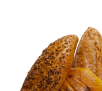
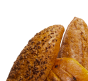
adaptive

diff --git a/css/styles.min.css b/css/styles.min.css
@@ -1,1 +1,1 @@
-:root{--primary-light: #faf4ea;--primary-dark: #31261a;--primary-green: #819b57;--secondary-light: #cfcfbc;--secondary-dark: #a18268;--secondary-green: #465929}@font-face{font-display:swap;font-family:"Poppins";font-style:normal;font-weight:300;src:url("../assets/fonts/poppins-v20-latin-300.woff2") format("woff2")}@font-face{font-display:swap;font-family:"Poppins";font-style:normal;font-weight:400;src:url("../assets/fonts/poppins-v20-latin-regular.woff2") format("woff2")}@font-face{font-display:swap;font-family:"Poppins";font-style:normal;font-weight:600;src:url("../assets/fonts/poppins-v20-latin-600.woff2") format("woff2")}@font-face{font-display:swap;font-family:"Poppins";font-style:normal;font-weight:900;src:url("../assets/fonts/poppins-v20-latin-900.woff2") format("woff2")}.accent{color:var(--primary-green);font-weight:600}.uppercase{text-transform:uppercase}.hidden{position:absolute;left:-10000px;top:auto;width:1px;height:1px;overflow:hidden}.is-hidden{opacity:0;visibility:hidden;pointer-events:none}.limited_340{max-width:340px}@media screen and (max-width: 768px){.limited_340{max-width:none}}.bg-img{background-repeat:no-repeat;background-position:center;background-size:cover}*{margin:0;padding:0;box-sizing:border-box}*:focus{outline:none}body{color:var(--primary-dark);background-color:var(--primary-light);font-family:"Poppins",sans-serif;font-weight:400;font-size:18px;line-height:1.5}@media screen and (max-width: 768px){body{font-size:16px;font-weight:300}}section{padding:48px 0 48px}@media screen and (max-width: 768px){section{padding:20px 0 20px}}.wrapper{width:100%;max-width:1288px;margin:0 auto;padding:0 24px}@media screen and (max-width: 768px){.wrapper{padding:0 20px}}ul{list-style-type:none}address{font-style:normal}h1{font-weight:900;font-size:128px}@media screen and (max-width: 1279px){h1{line-height:1.2}}@media screen and (max-width: 768px){h1{font-size:87px;line-height:1.015}}@media screen and (max-width: 480px){h1{font-size:67px;line-height:1.015}}h2{font-weight:900;font-size:64px;line-height:1.31}@media screen and (max-width: 1279px){h2{font-size:48px}}@media screen and (max-width: 768px){h2{font-size:32px}}h3{font-weight:600;font-size:40px}@media screen and (max-width: 1279px){h3{font-size:34px}}@media screen and (max-width: 768px){h3{font-size:24px}}a{text-decoration:none}img{max-width:100%;height:auto}.grn-btn{padding:16px 32px;background-color:var(--primary-green);color:var(--primary-light);font-size:18px;font-weight:600;border-radius:8px;border:2px solid var(--primary-green);cursor:pointer}.grn-btn:hover{background-color:rgba(0,0,0,0);color:var(--secondary-green)}@media screen and (max-width: 480px){.grn-btn{padding:12px 24px;font-size:16px}}.header{padding:32px 0 0;position:absolute;left:0;top:0;right:0;z-index:10}@media screen and (max-width: 480px){.header{padding:16px 0 0}}.header .wrapper{display:flex;flex-direction:row;justify-content:space-between;align-items:center;gap:40px}@media screen and (max-width: 1279px){.header .wrapper{justify-content:space-around}}@media screen and (max-width: 768px){.header .wrapper{justify-content:space-between}}.header__logo img{width:114px}@media screen and (max-width: 480px){.header__logo img{width:72px}}@media screen and (max-width: 768px){.header__nav{display:none}}.header__nav-list{display:flex;flex-direction:row;justify-content:space-between;align-items:center;gap:64px}@media screen and (max-width: 1279px){.header__nav-list{gap:60px}}.header__nav-item a{color:var(--primary-light);transition:color .3s}.header__nav-item a:hover{color:var(--primary-green)}@media screen and (max-width: 1279px){.header__btn{display:none}}.header__menu-btn{display:none;background-color:rgba(0,0,0,0);border:none;width:48px;height:48px;fill:var(--primary-light);padding:0}@media screen and (max-width: 768px){.header__menu-btn{display:block}}@media screen and (max-width: 480px){.header__menu-btn{width:24px;height:24px}}.header__menu-btn-icon{width:100%;height:100%}.footer{padding:32px 0 32px;background-image:url(../../assets/imgs/footer.jpg);position:relative}.footer:before,.footer:after{content:"";display:block;position:absolute;background-repeat:no-repeat}.footer:before{left:0;bottom:0;width:179px;height:121px;background-image:url(../../assets/imgs/bg-bread-left.png)}.footer:after{right:0;bottom:0;width:378px;height:187px;background-image:url(../../assets/imgs/bg-bread-right.png)}.footer .wrapper{display:flex;flex-direction:row;justify-content:space-between;gap:40px}.footer .wrapper>*{flex-grow:1}.footer a{color:var(--primary-light)}.footer a:hover{text-decoration:underline;color:var(--primary-green)}.footer__logo a{display:inline-block}.footer__nav-item:not(:last-child){margin-bottom:16px}.footer__address{display:flex;flex-direction:row;justify-content:space-between;gap:40px}.footer__address-list{max-width:211px}.footer__address-link{font-size:16px;font-weight:300;display:inline-block;margin-bottom:16px}.footer__privacy a{display:inline-block;margin-bottom:16px}.footer__copyright{font-size:14px;color:var(--secondary-dark)}.footer__soc{display:inline-block}.footer__soc:not(:last-child){margin-right:18px}.footer__soc-icon{width:32px;height:32px;fill:var(--primary-light)}.footer__soc-icon:hover{fill:var(--primary-green)}.hero{padding:0;background-image:linear-gradient(103deg, rgba(18, 18, 17, 0.78) 2.03%, rgba(18, 18, 17, 0.6) 58.46%, rgba(18, 18, 17, 0) 90.36%),url(../../assets/imgs/hero-bg.jpg);background-position:center top;background-size:cover;background-repeat:no-repeat;position:relative}@media(min-device-pixel-ratio: 2),(-webkit-min-device-pixel-ratio: 2),(min-resolution: 192dpi),(min-resolution: 2dppx){.hero{background-image:linear-gradient(103deg, rgba(18, 18, 17, 0.78) 2.03%, rgba(18, 18, 17, 0.6) 58.46%, rgba(18, 18, 17, 0) 90.36%),url(../../assets/imgs/hero-bg@2x.jpg)}}.hero .wrapper{position:relative;z-index:2;padding-top:272px;padding-bottom:272px}@media screen and (max-width: 768px){.hero .wrapper{padding-top:122px;padding-bottom:32px}}.hero__title{color:var(--primary-light);text-align:center;margin-bottom:0}.hero__mobile-btn{display:none;margin:48px auto 0}@media screen and (max-width: 1279px){.hero__mobile-btn{display:block}}.advantages{background-color:var(--primary-green);padding:16px 0}@media screen and (max-width: 480px){.advantages{background-color:rgba(0,0,0,0);padding:40px 21px 20px}}@media screen and (max-width: 480px){.advantages .wrapper{background-color:var(--secondary-light);padding:24px 40px;border-radius:24px}}.advantages__list{display:flex;justify-content:space-between;gap:40px}@media screen and (max-width: 480px){.advantages__list{flex-direction:column;gap:16px}}.advantages__item{color:var(--primary-light);font-size:20px;font-weight:300;text-align:center}@media screen and (max-width: 480px){.advantages__item{color:var(--primary-dark);font-size:14px;text-align:start}}.traditions{padding-top:96px}@media screen and (max-width: 768px){.traditions{padding-top:48px}}@media screen and (max-width: 480px){.traditions{padding-top:24px}}.traditions .wrapper{display:flex;justify-content:space-between;align-items:flex-start;gap:40px}@media screen and (max-width: 1279px){.traditions .wrapper{gap:20px}}.traditions__title{margin-bottom:42px}@media screen and (max-width: 768px){.traditions__title{margin-bottom:24px}}.traditions__descr{max-width:710px}.traditions__descr>*{margin-bottom:42px}@media screen and (max-width: 768px){.traditions__descr>*{margin-bottom:16px}}.traditions__descr>*:last-child{margin-bottom:0}.traditions__img{border-radius:400px 400px 0px 0px}@media screen and (max-width: 768px){.traditions__img{display:none}}.bakers__title{margin:0 auto 80px;text-align:center;position:relative}@media screen and (max-width: 768px){.bakers__title{margin:0 auto 20px}}.bakers__title_accent{display:block}.bakers__title:before,.bakers__title:after{content:"";display:block;width:352px;height:2px;background-color:var(--secondary-light);position:absolute;bottom:24px}@media screen and (max-width: 1279px){.bakers__title:before,.bakers__title:after{display:none}}.bakers__title:before{left:0}.bakers__title:after{right:0}.bakers__list{display:flex;flex-direction:row;justify-content:space-between;align-items:flex-start;flex-wrap:wrap;gap:40px 30px}@media screen and (max-width: 1279px){.bakers__list{gap:20px}}.bakers__baker{flex-basis:calc((100% - 30px)/2)}@media screen and (max-width: 1279px){.bakers__baker{flex-basis:auto}}.bakers__baker-content{display:flex;flex-direction:row;justify-content:left;align-items:flex-start;gap:30px}@media screen and (max-width: 1279px){.bakers__baker-content{gap:16px}}.bakers__baker-img{width:240px;border-radius:4px 4px 4px 200px;background:var(--secondary-light);box-shadow:-16px 16px 0 -2px var(--primary-light),-16px 16px 0 0 var(--secondary-dark)}@media screen and (max-width: 1279px){.bakers__baker-img{width:140px;box-shadow:-10px 10px 0 -2px var(--primary-light),-10px 10px 0 0 var(--secondary-dark)}}.bakers__baker-descr>*:not(:last-child){margin-bottom:24px}@media screen and (max-width: 768px){.bakers__baker-descr>*:not(:last-child){margin-bottom:16px}}@media screen and (max-width: 768px){.bakers__baker-descr{font-size:14px;font-weight:300}}.bakers__baker-title{margin-bottom:16px}.formats__title{margin-bottom:80px;text-align:center}@media screen and (max-width: 768px){.formats__title{margin-bottom:24px}}.contacts{padding-bottom:96px}@media screen and (max-width: 768px){.contacts{padding-bottom:0}}.contacts .wrapper{display:flex;flex-direction:row;justify-content:space-between;align-items:center;gap:32px}@media screen and (max-width: 768px){.contacts .wrapper{flex-direction:column;gap:24px}}.contacts .wrapper>*{flex-basis:calc((100% - 32px)/2)}@media screen and (max-width: 768px){.contacts .wrapper>*{flex-basis:auto}}.contacts__title{margin-bottom:42px}@media screen and (max-width: 768px){.contacts__title{margin-bottom:24px}}.contacts__title h2{margin-bottom:16px}@media screen and (max-width: 768px){.contacts__title h2{text-align:center;margin-bottom:8px}}.contacts__title p{color:var(--secondary-green)}@media screen and (max-width: 768px){.contacts__title p{font-size:14px;text-align:center}}.contacts .call-order-form__block{margin-bottom:24px}@media screen and (max-width: 480px){.contacts .call-order-form__block{margin-bottom:16px}}.contacts .call-order-form__btn{margin-bottom:16px}.contacts__map{border-radius:16px;border:none;height:595px}@media screen and (max-width: 768px){.contacts__map{width:calc(100% + 40px);height:376px}}@media screen and (max-width: 480px){.contacts__map{height:176px}}.mobile-menu{position:fixed;top:0;left:0;width:100%;height:100%;background-color:var(--primary-light);transform:translateX(100%);transition:transform .4s}.mobile-menu.is-open{transform:translateX(0)}.mobile-menu__close-btn{position:absolute;top:16px;right:24px;background-color:rgba(0,0,0,0);border:none;width:12px;height:12px;cursor:pointer}.mobile-menu__close-btn img{width:100%}.carousel{padding:0 77px;position:relative;text-align:center}@media screen and (max-width: 768px){.carousel{padding:0}}@media screen and (max-width: 768px){.carousel__inner{max-width:350px}}@media screen and (max-width: 768px){.carousel__inner{max-width:320px}}.carousel__item{display:flex !important;flex-direction:column;justify-content:flex-end;color:var(--primary-light);height:444px !important;padding:24px;position:relative;background:linear-gradient(180deg, rgba(49, 38, 26, 0) 55.21%, rgba(49, 38, 26, 0.71) 72.92%, #31261a 100%);border-radius:16px;-moz-text-align-last:left;text-align-last:left}.carousel__item-content{position:relative;min-height:170px}.carousel__item-title{margin-bottom:16px;font-size:24px}.carousel__item-descr{font-size:14px;font-weight:300}.carousel__item-descr dd,.carousel__item-descr dt{display:inline;line-height:1.7}.carousel__item-img{width:100%;height:100%;position:absolute;inset:0;z-index:-1}.carousel__item-img img{width:100%;height:100%;-o-object-fit:cover;object-fit:cover;border-radius:16px}.carousel__item-img:before{content:"";width:100%;height:100%;position:absolute;inset:0;background-blend-mode:overlay}.carousel .carousel__btn{display:flex;justify-content:center;align-items:center;flex-shrink:0;width:44px;height:44px;padding:0;background-color:rgba(0,0,0,0);border-radius:50%;border:1px solid var(--primary-dark);cursor:pointer;position:absolute;top:calc(50% - 22px)}@media screen and (max-width: 480px){.carousel .carousel__btn{display:none}}.carousel .carousel__btn:after{display:none}.carousel .carousel__btn:hover{background-color:var(--primary-dark)}.carousel .carousel__btn:hover .carousel__arrow{fill:var(--primary-light)}.carousel .carousel__btn_prev{left:0}.carousel .carousel__btn_next{transform:rotate(180deg);right:0}.carousel__arrow{width:16px;height:16px;fill:var(--primary-dark)}.pagination{width:auto !important;display:inline-flex;flex-direction:row;justify-content:space-between;align-items:center;gap:24px;margin-top:32px}.pagination__button{width:11px;height:11px;background-color:var(--secondary-dark);border-radius:100%;cursor:pointer}.pagination__button_active{background-color:var(--primary-green)}.modal{position:fixed;inset:0;background-color:rgba(0,0,0,.5);z-index:999;display:flex;flex-direction:row;justify-content:center;align-items:center;transition:opacity .3s,visibility .3s}.modal__inner{position:relative;background-color:var(--primary-light);border-radius:32px;width:100%;height:100%}.modal__close-btn{position:absolute;inset:40px 40px auto auto;background-color:rgba(0,0,0,0);border:none;width:40px;height:40px;cursor:pointer}.modal__close-btn img{width:100%}.call-order__inner{max-width:880px;max-height:880px;padding:128px 128px 187px;overflow-y:auto}.call-order__title{text-align:center;margin-bottom:72px}.call-order__title h2{margin-bottom:8px}.call-order-form__block{margin-bottom:32px}@media screen and (max-width: 480px){.call-order-form__block{margin-bottom:16px}}.call-order-form__input{padding:16px 42px;width:100%;background-color:rgba(0,0,0,0);border:1px solid var(--secondary-dark);border-radius:8px;font-size:16px}@media screen and (max-width: 480px){.call-order-form__input{padding:8px 24px}}.call-order-form__input:focus{border-color:var(--primary-green)}.call-order-form__input:focus::-moz-placeholder{color:var(--primary-dark)}.call-order-form__input:focus::placeholder{color:var(--primary-dark)}.call-order-form__input::-moz-placeholder{color:var(--secondary-dark);font-size:16px}.call-order-form__input::placeholder{color:var(--secondary-dark);font-size:16px}.call-order-form__btn{display:block;margin:0 auto 24px}.call-order-form__privacy{display:block;max-width:215px;margin:0 auto;text-align:center;font-size:12px;font-weight:500;color:var(--primary-dark)}.call-order-form__privacy a{color:var(--primary-dark);text-decoration:underline;text-underline-offset:2px}.call-order-form__privacy a:hover{text-decoration:none}/*# sourceMappingURL=styles.min.css.map */
+:root{--primary-light: #faf4ea;--primary-dark: #31261a;--primary-green: #819b57;--secondary-light: #cfcfbc;--secondary-dark: #a18268;--secondary-green: #465929}@font-face{font-display:swap;font-family:"Poppins";font-style:normal;font-weight:300;src:url("../assets/fonts/poppins-v20-latin-300.woff2") format("woff2")}@font-face{font-display:swap;font-family:"Poppins";font-style:normal;font-weight:400;src:url("../assets/fonts/poppins-v20-latin-regular.woff2") format("woff2")}@font-face{font-display:swap;font-family:"Poppins";font-style:normal;font-weight:600;src:url("../assets/fonts/poppins-v20-latin-600.woff2") format("woff2")}@font-face{font-display:swap;font-family:"Poppins";font-style:normal;font-weight:900;src:url("../assets/fonts/poppins-v20-latin-900.woff2") format("woff2")}.accent{color:var(--primary-green);font-weight:600}.uppercase{text-transform:uppercase}.hidden{position:absolute;left:-10000px;top:auto;width:1px;height:1px;overflow:hidden}.is-hidden{opacity:0;visibility:hidden;pointer-events:none}.limited_340{max-width:340px}@media screen and (max-width: 768px){.limited_340{max-width:none}}.bg-img{background-repeat:no-repeat;background-position:center;background-size:cover}*{margin:0;padding:0;box-sizing:border-box}*:focus{outline:none}body{color:var(--primary-dark);background-color:var(--primary-light);font-family:"Poppins",sans-serif;font-weight:400;font-size:18px;line-height:1.5}@media screen and (max-width: 768px){body{font-size:16px;font-weight:300}}section{padding:48px 0 48px}@media screen and (max-width: 768px){section{padding:20px 0 20px}}.wrapper{width:100%;max-width:1288px;margin:0 auto;padding:0 24px}@media screen and (max-width: 768px){.wrapper{padding:0 20px}}ul{list-style-type:none}address{font-style:normal}h1{font-weight:900;font-size:128px}@media screen and (max-width: 1279px){h1{line-height:1.2}}@media screen and (max-width: 768px){h1{font-size:87px;line-height:1.015}}@media screen and (max-width: 480px){h1{font-size:67px;line-height:1.015}}h2{font-weight:900;font-size:64px;line-height:1.31}@media screen and (max-width: 1279px){h2{font-size:48px}}@media screen and (max-width: 768px){h2{font-size:32px}}h3{font-weight:600;font-size:40px}@media screen and (max-width: 1279px){h3{font-size:34px}}@media screen and (max-width: 768px){h3{font-size:24px}}a{text-decoration:none}img{max-width:100%;height:auto}.grn-btn{padding:16px 32px;background-color:var(--primary-green);color:var(--primary-light);font-size:18px;font-weight:600;border-radius:8px;border:2px solid var(--primary-green);cursor:pointer}.grn-btn:hover{background-color:rgba(0,0,0,0);color:var(--secondary-green)}@media screen and (max-width: 480px){.grn-btn{padding:12px 24px;font-size:16px}}.header{padding:32px 0 0;position:absolute;left:0;top:0;right:0;z-index:10}@media screen and (max-width: 480px){.header{padding:16px 0 0}}.header .wrapper{display:flex;flex-direction:row;justify-content:space-between;align-items:center;gap:40px}@media screen and (max-width: 1279px){.header .wrapper{justify-content:space-around}}@media screen and (max-width: 768px){.header .wrapper{justify-content:space-between}}.header__logo img{width:114px}@media screen and (max-width: 480px){.header__logo img{width:72px}}@media screen and (max-width: 768px){.header__nav{display:none}}.header__nav-list{display:flex;flex-direction:row;justify-content:space-between;align-items:center;gap:64px}@media screen and (max-width: 1279px){.header__nav-list{gap:60px}}.header__nav-item a{color:var(--primary-light);transition:color .3s}.header__nav-item a:hover{color:var(--primary-green)}@media screen and (max-width: 1279px){.header__btn{display:none}}.header__menu-btn{display:none;background-color:rgba(0,0,0,0);border:none;width:48px;height:48px;fill:var(--primary-light);padding:0}@media screen and (max-width: 768px){.header__menu-btn{display:block}}@media screen and (max-width: 480px){.header__menu-btn{width:24px;height:24px}}.header__menu-btn-icon{width:100%;height:100%}.footer{padding:32px 0 32px;background-image:url(../../assets/imgs/footer.jpg);position:relative}.footer:before,.footer:after{content:"";display:block;position:absolute;background-repeat:no-repeat}.footer:before{left:0;bottom:0;width:179px;height:121px;background-image:url(../../assets/imgs/bg-bread-left.png)}@media screen and (max-width: 480px){.footer:before{bottom:auto;top:60px;width:92px;height:196px;background-image:url(../../assets/imgs/m-bg-bread-left.png)}}.footer:after{right:0;bottom:0;width:378px;height:187px;background-image:url(../../assets/imgs/bg-bread-right.png)}@media screen and (max-width: 768px){.footer:after{width:290px}}@media screen and (max-width: 480px){.footer:after{width:86px;height:82px;background-image:url(../../assets/imgs/m-bg-bread-right.png)}}.footer .wrapper{display:flex;flex-direction:row;justify-content:space-between;gap:40px}@media screen and (max-width: 768px){.footer .wrapper{flex-direction:column;text-align:center}}@media screen and (max-width: 480px){.footer .wrapper{gap:0}}.footer .wrapper>*{flex-grow:1}.footer a{color:var(--primary-light)}.footer a:hover{text-decoration:underline;color:var(--primary-green)}@media screen and (max-width: 480px){.footer__logo{margin-bottom:32px}}.footer__logo a{display:inline-block}@media screen and (max-width: 480px){.footer__logo img{width:72px}}@media screen and (max-width: 480px){.footer__nav{margin-bottom:18px}}.footer__nav-item:not(:last-child){margin-bottom:16px}.footer__address{display:flex;flex-direction:row;justify-content:space-between;gap:40px}@media screen and (max-width: 768px){.footer__address{flex-direction:column;text-align:center}}@media screen and (max-width: 480px){.footer__address{gap:8px}}.footer__address-list{max-width:211px}@media screen and (max-width: 768px){.footer__address-list{max-width:none}}.footer__address-link{font-size:16px;font-weight:300;display:inline-block;margin-bottom:16px}.footer__privacy a{display:inline-block;margin-bottom:16px}@media screen and (max-width: 480px){.footer__privacy a{margin-bottom:8px}}.footer__copyright{font-size:14px;color:var(--secondary-dark)}.footer__soc{display:inline-block}.footer__soc:not(:last-child){margin-right:18px}.footer__soc-icon{width:32px;height:32px;fill:var(--primary-light)}.footer__soc-icon:hover{fill:var(--primary-green)}.hero{padding:0;background-image:linear-gradient(103deg, rgba(18, 18, 17, 0.78) 2.03%, rgba(18, 18, 17, 0.6) 58.46%, rgba(18, 18, 17, 0) 90.36%),url(../../assets/imgs/hero-bg.jpg);background-position:center top;background-size:cover;background-repeat:no-repeat;position:relative}@media(min-device-pixel-ratio: 2),(-webkit-min-device-pixel-ratio: 2),(min-resolution: 192dpi),(min-resolution: 2dppx){.hero{background-image:linear-gradient(103deg, rgba(18, 18, 17, 0.78) 2.03%, rgba(18, 18, 17, 0.6) 58.46%, rgba(18, 18, 17, 0) 90.36%),url(../../assets/imgs/hero-bg@2x.jpg)}}.hero .wrapper{position:relative;z-index:2;padding-top:272px;padding-bottom:272px}@media screen and (max-width: 768px){.hero .wrapper{padding-top:122px;padding-bottom:32px}}.hero__title{color:var(--primary-light);text-align:center;margin-bottom:0}.hero__mobile-btn{display:none;margin:48px auto 0}@media screen and (max-width: 1279px){.hero__mobile-btn{display:block}}.advantages{background-color:var(--primary-green);padding:16px 0}@media screen and (max-width: 480px){.advantages{background-color:rgba(0,0,0,0);padding:40px 21px 20px}}@media screen and (max-width: 480px){.advantages .wrapper{background-color:var(--secondary-light);padding:24px 40px;border-radius:24px}}.advantages__list{display:flex;justify-content:space-between;gap:40px}@media screen and (max-width: 480px){.advantages__list{flex-direction:column;gap:16px}}.advantages__item{color:var(--primary-light);font-size:20px;font-weight:300;text-align:center}@media screen and (max-width: 480px){.advantages__item{color:var(--primary-dark);font-size:14px;text-align:start}}.traditions{padding-top:96px}@media screen and (max-width: 768px){.traditions{padding-top:48px}}@media screen and (max-width: 480px){.traditions{padding-top:24px}}.traditions .wrapper{display:flex;justify-content:space-between;align-items:flex-start;gap:40px}@media screen and (max-width: 1279px){.traditions .wrapper{gap:20px}}.traditions__title{margin-bottom:42px}@media screen and (max-width: 768px){.traditions__title{margin-bottom:24px}}.traditions__descr{max-width:710px}.traditions__descr>*{margin-bottom:42px}@media screen and (max-width: 768px){.traditions__descr>*{margin-bottom:16px}}.traditions__descr>*:last-child{margin-bottom:0}.traditions__img{border-radius:400px 400px 0px 0px}@media screen and (max-width: 768px){.traditions__img{display:none}}.bakers__title{margin:0 auto 80px;text-align:center;position:relative}@media screen and (max-width: 768px){.bakers__title{margin:0 auto 20px}}.bakers__title_accent{display:block}.bakers__title:before,.bakers__title:after{content:"";display:block;width:352px;height:2px;background-color:var(--secondary-light);position:absolute;bottom:24px}@media screen and (max-width: 1279px){.bakers__title:before,.bakers__title:after{display:none}}.bakers__title:before{left:0}.bakers__title:after{right:0}.bakers__list{display:flex;flex-direction:row;justify-content:space-between;align-items:flex-start;flex-wrap:wrap;gap:40px 30px}@media screen and (max-width: 1279px){.bakers__list{gap:20px}}.bakers__baker{flex-basis:calc((100% - 30px)/2)}@media screen and (max-width: 1279px){.bakers__baker{flex-basis:auto}}.bakers__baker-content{display:flex;flex-direction:row;justify-content:left;align-items:flex-start;gap:30px}@media screen and (max-width: 1279px){.bakers__baker-content{gap:16px}}.bakers__baker-img{width:240px;border-radius:4px 4px 4px 200px;background:var(--secondary-light);box-shadow:-16px 16px 0 -2px var(--primary-light),-16px 16px 0 0 var(--secondary-dark)}@media screen and (max-width: 1279px){.bakers__baker-img{width:140px;box-shadow:-10px 10px 0 -2px var(--primary-light),-10px 10px 0 0 var(--secondary-dark)}}.bakers__baker-descr>*:not(:last-child){margin-bottom:24px}@media screen and (max-width: 768px){.bakers__baker-descr>*:not(:last-child){margin-bottom:16px}}@media screen and (max-width: 768px){.bakers__baker-descr{font-size:14px;font-weight:300}}.bakers__baker-title{margin-bottom:16px}.formats__title{margin-bottom:80px;text-align:center}@media screen and (max-width: 768px){.formats__title{margin-bottom:24px}}.contacts{padding-bottom:96px}@media screen and (max-width: 768px){.contacts{padding-bottom:0}}.contacts .wrapper{display:flex;flex-direction:row;justify-content:space-between;align-items:center;gap:32px}@media screen and (max-width: 768px){.contacts .wrapper{flex-direction:column;gap:24px}}.contacts .wrapper>*{flex-basis:calc((100% - 32px)/2)}@media screen and (max-width: 768px){.contacts .wrapper>*{flex-basis:auto}}.contacts__title{margin-bottom:42px}@media screen and (max-width: 768px){.contacts__title{margin-bottom:24px}}.contacts__title h2{margin-bottom:16px}@media screen and (max-width: 768px){.contacts__title h2{text-align:center;margin-bottom:8px}}.contacts__title p{color:var(--secondary-green)}@media screen and (max-width: 768px){.contacts__title p{font-size:14px;text-align:center}}.contacts .call-order-form__block{margin-bottom:24px}@media screen and (max-width: 480px){.contacts .call-order-form__block{margin-bottom:16px}}.contacts .call-order-form__btn{margin-bottom:16px}.contacts__map{border-radius:16px;border:none;height:595px}@media screen and (max-width: 768px){.contacts__map{width:calc(100% + 40px);height:376px}}@media screen and (max-width: 480px){.contacts__map{height:176px}}.mobile-menu{position:fixed;top:0;left:0;width:100%;height:100%;background-color:var(--primary-light);transform:translateX(100%);transition:transform .4s}.mobile-menu.is-open{transform:translateX(0)}.mobile-menu__close-btn{position:absolute;top:16px;right:24px;background-color:rgba(0,0,0,0);border:none;width:12px;height:12px;cursor:pointer}.mobile-menu__close-btn img{width:100%}.carousel{padding:0 77px;position:relative;text-align:center}@media screen and (max-width: 768px){.carousel{padding:0}}@media screen and (max-width: 768px){.carousel__inner{max-width:350px}}@media screen and (max-width: 768px){.carousel__inner{max-width:320px}}.carousel__item{display:flex !important;flex-direction:column;justify-content:flex-end;color:var(--primary-light);height:444px !important;padding:24px;position:relative;background:linear-gradient(180deg, rgba(49, 38, 26, 0) 55.21%, rgba(49, 38, 26, 0.71) 72.92%, #31261a 100%);border-radius:16px;-moz-text-align-last:left;text-align-last:left}.carousel__item-content{position:relative;min-height:170px}.carousel__item-title{margin-bottom:16px;font-size:24px}.carousel__item-descr{font-size:14px;font-weight:300}.carousel__item-descr dd,.carousel__item-descr dt{display:inline;line-height:1.7}.carousel__item-img{width:100%;height:100%;position:absolute;inset:0;z-index:-1}.carousel__item-img img{width:100%;height:100%;-o-object-fit:cover;object-fit:cover;border-radius:16px}.carousel__item-img:before{content:"";width:100%;height:100%;position:absolute;inset:0;background-blend-mode:overlay}.carousel .carousel__btn{display:flex;justify-content:center;align-items:center;flex-shrink:0;width:44px;height:44px;padding:0;background-color:rgba(0,0,0,0);border-radius:50%;border:1px solid var(--primary-dark);cursor:pointer;position:absolute;top:calc(50% - 22px)}@media screen and (max-width: 480px){.carousel .carousel__btn{display:none}}.carousel .carousel__btn:after{display:none}.carousel .carousel__btn:hover{background-color:var(--primary-dark)}.carousel .carousel__btn:hover .carousel__arrow{fill:var(--primary-light)}.carousel .carousel__btn_prev{left:0}.carousel .carousel__btn_next{transform:rotate(180deg);right:0}.carousel__arrow{width:16px;height:16px;fill:var(--primary-dark)}.pagination{width:auto !important;display:inline-flex;flex-direction:row;justify-content:space-between;align-items:center;gap:24px;margin-top:32px}.pagination__button{width:11px;height:11px;background-color:var(--secondary-dark);border-radius:100%;cursor:pointer}.pagination__button_active{background-color:var(--primary-green)}.modal{position:fixed;inset:0;background-color:rgba(0,0,0,.5);z-index:999;display:flex;flex-direction:row;justify-content:center;align-items:center;transition:opacity .3s,visibility .3s}.modal__inner{position:relative;background-color:var(--primary-light);border-radius:32px;width:100%;height:100%}.modal__close-btn{position:absolute;inset:40px 40px auto auto;background-color:rgba(0,0,0,0);border:none;width:40px;height:40px;cursor:pointer}.modal__close-btn img{width:100%}.call-order__inner{max-width:880px;max-height:880px;padding:128px 128px 187px;overflow-y:auto}.call-order__title{text-align:center;margin-bottom:72px}.call-order__title h2{margin-bottom:8px}.call-order-form__block{margin-bottom:32px}@media screen and (max-width: 480px){.call-order-form__block{margin-bottom:16px}}.call-order-form__input{padding:16px 42px;width:100%;background-color:rgba(0,0,0,0);border:1px solid var(--secondary-dark);border-radius:8px;font-size:16px}@media screen and (max-width: 480px){.call-order-form__input{padding:8px 24px}}.call-order-form__input:focus{border-color:var(--primary-green)}.call-order-form__input:focus::-moz-placeholder{color:var(--primary-dark)}.call-order-form__input:focus::placeholder{color:var(--primary-dark)}.call-order-form__input::-moz-placeholder{color:var(--secondary-dark);font-size:16px}.call-order-form__input::placeholder{color:var(--secondary-dark);font-size:16px}.call-order-form__btn{display:block;margin:0 auto 24px}.call-order-form__privacy{display:block;max-width:215px;margin:0 auto;text-align:center;font-size:12px;font-weight:500;color:var(--primary-dark)}.call-order-form__privacy a{color:var(--primary-dark);text-decoration:underline;text-underline-offset:2px}.call-order-form__privacy a:hover{text-decoration:none}/*# sourceMappingURL=styles.min.css.map */

diff --git a/scss/layout/_footer.scss b/scss/layout/_footer.scss
@@ -17,6 +17,14 @@
         width: 179px;
         height: 121px;
         background-image: url(../../assets/imgs/bg-bread-left.png);
+
+        @media screen and (max-width: $bp-mobile) {
+            bottom: auto;
+            top: 60px;
+            width: 92px;
+            height: 196px;
+            background-image: url(../../assets/imgs/m-bg-bread-left.png);
+        }
     }
 
     &:after {
@@ -25,6 +33,16 @@
         width: 378px;
         height: 187px;
         background-image: url(../../assets/imgs/bg-bread-right.png);
+
+        @media screen and (max-width: $bp-tablet) {
+            width: 290px;
+        }
+
+        @media screen and (max-width: $bp-mobile) {
+            width: 86px;
+            height: 82px;
+            background-image: url(../../assets/imgs/m-bg-bread-right.png);
+        }
     }
 
     .wrapper {
@@ -32,6 +50,15 @@
         flex-direction: row;
         justify-content: space-between;
         gap: 40px;
+
+        @media screen and (max-width: $bp-tablet) {
+            flex-direction: column;
+            text-align: center;
+        }
+
+        @media screen and (max-width: $bp-mobile) {
+            gap: 0;
+        }
 
         & > * {
             flex-grow: 1;
@@ -48,13 +75,29 @@
     }
 
     &__logo {
+        @media screen and (max-width: $bp-mobile) {
+            margin-bottom: 32px;
+        }
+
         a {
             display: inline-block;
         }
+
+        img {
+            @media screen and (max-width: $bp-mobile) {
+                width: 72px;
+            }
+        }
     }
 
-    &__nav-item:not(:last-child) {
-        margin-bottom: 16px;
+    &__nav {
+        @media screen and (max-width: $bp-mobile) {
+            margin-bottom: 18px;
+        }
+
+        &-item:not(:last-child) {
+            margin-bottom: 16px;
+        }
     }
 
     &__address {
@@ -63,8 +106,21 @@
         justify-content: space-between;
         gap: 40px;
 
+        @media screen and (max-width: $bp-tablet) {
+            flex-direction: column;
+            text-align: center;
+        }
+
+        @media screen and (max-width: $bp-mobile) {
+            gap: 8px;
+        }
+
         &-list {
             max-width: 211px;
+
+            @media screen and (max-width: $bp-tablet) {
+                max-width: none;
+            }
         }
 
         &-link {
@@ -79,6 +135,10 @@
         a {
             display: inline-block;
             margin-bottom: 16px;
+
+            @media screen and (max-width: $bp-mobile) {
+                margin-bottom: 8px;
+            }
         }
     }
 
